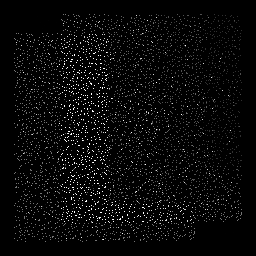
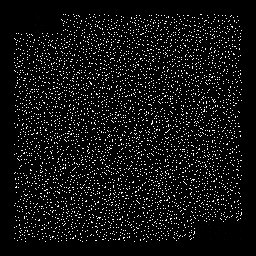
Updated Hotspot test and added RB test.

diff --git a/FeatureDetector.py b/FeatureDetector.py
@@ -238,7 +238,7 @@ class FeatureDetector():
                 img[pt1] = np.add(img[pt1], l)
                 img[pt2] = np.add(img[pt2], l)
 
-        img = np.multiply(img, 0.1)
+        #img = np.multiply(img, 0.1)
 
         return img
 
@@ -252,6 +252,33 @@ class FeatureDetector():
             cv2.imwrite(filename, img)
         except:
             print("Unable to output hotspot image.")
+    
+    def drawRBImage(self):
+        img = np.zeros(shape=self.img.shape)
+
+        for group in self.group:
+        
+            l = len(group)
+
+            for match in group:
+                pt1 = tuple(int(i) for i in self.kpts[match.queryIdx].pt)
+                pt2 = tuple(int(i) for i in self.kpts[match.trainIdx].pt)
+
+                img[pt1] = np.add(img[pt1], [255,0,0])
+                img[pt2] = np.add(img[pt2], [0,0,255])
+
+        return img
+
+    def writeRBImage(self, filename=None):
+        if not filename: 
+            filename = f'{self.name}.{self.method}.rb.png'
+
+        img = self.drawRBImage()
+
+        try:
+            cv2.imwrite(filename, img)
+        except:
+            print("Unable to output RB image.")
 
     def gradeHotspot(self):
 
@@ -260,7 +287,7 @@ class FeatureDetector():
         for group in self.group:
             
             l = len(group)
-            grade = grade + 2 * l * l
+            grade = grade + l
 
         shape = self.img.shape
         pixels = shape[0] * shape[0]

diff --git a/rb-BRISK.py b/rb-BRISK.py
@@ -1,0 +1,44 @@
+#!/usr/bin/env python
+
+import sys
+import os
+import numpy as np
+import cv2
+
+from ORB import ORBClass
+from SIFT import SIFTClass
+from BRISK import BRISKClass
+from FREAK import FREAKClass
+from FeatureDetector import FeatureDetector
+
+def usage():
+    print(f"Usage: {sys.argv[0]} <image>")
+
+if __name__ == "__main__":
+
+    if len(sys.argv) < 2:
+        usage()
+        exit()
+
+    print('HASH,BRISK')
+
+    for filename in sys.argv[1:]:
+
+        basename = os.path.basename(filename)
+        parts = basename.split('.')
+        name = parts[0]
+
+        image = cv2.imread(filename)
+
+        if image is None:
+            print("Error: Image did not load.")
+            continue
+
+        basename = os.path.basename(filename)
+        parts = basename.split('.')
+        name = parts[0]
+
+        brisk = BRISKClass(image, name)
+        brisk.extractFeatures()
+        brisk.computeGroup()
+        brisk.writeRBImage()
